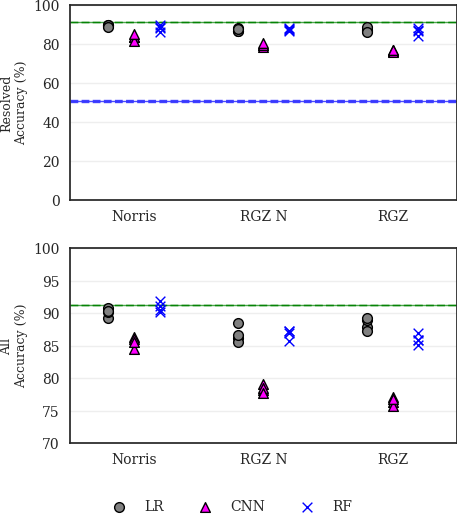
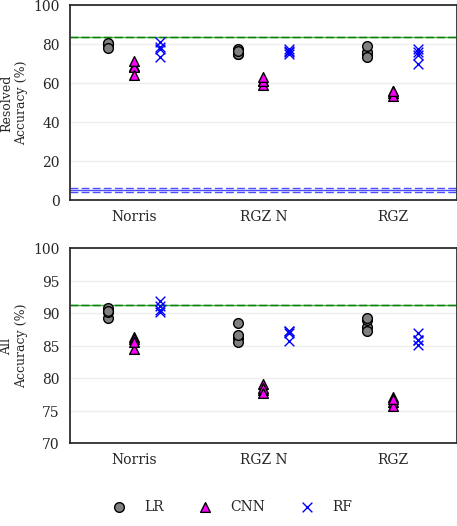
ELAIS plots fix - resolved/all

Changed region(s): [[0.1532, 0.0304, 1.0, 0.2129], [0.1532, 0.3346, 1.0, 0.3954]]

diff --git a/ATLAS-CDFS/scripts/plot_grid_cross_identifications.py b/ATLAS-CDFS/scripts/plot_grid_cross_identifications.py
@@ -86,11 +86,17 @@ def plot(field='cdfs'):
             elais_components = elais_components_fits[1].data
             atlas_cid_to_name = {}
             atlas_names = []  # Indices correspond to table 4 rows.
+            atlas_name_to_compact = {}
             for component in elais_components:
                 cid = component['CID']
                 name = component['ATELAIS']
                 atlas_names.append(name)
                 atlas_cid_to_name[cid] = name
+                row = {'Component S (Franzen)': component['Sint'],  # Fitting in with the CDFS API...
+                       'Component S_ERR (Franzen)': component['e_Sint'],
+                       'Component Sp (Franzen)': component['Sp'],
+                       'Component Sp_ERR (Franzen)': component['e_Sp']}
+                atlas_name_to_compact[name] = pipeline.compact_test(row)
         with open(pipeline.MIDDELBERG_TABLE5_PATH) as elais_file:
             # Took this code from pipeline.py, probably should make it a function
             lines = [line.split('|') for line in elais_file]
@@ -155,7 +161,10 @@ def plot(field='cdfs'):
             atlas_indices = atlas_test_sets[:, 0, 0].nonzero()[0]
             assert atlas_test_sets.shape[0] == len(atlas_names)
             for index in atlas_indices:
+                # Screen resolved here.
                 atlas_name = atlas_names[index]
+                if 'resolved' in cid.dataset_name and atlas_name_to_compact[atlas_name]:
+                    continue
                 if atlas_name not in atlas_to_swire_expert:
                     n_skipped += 1
                     continue
@@ -205,7 +214,10 @@ def plot(field='cdfs'):
                 atlas_indices = atlas_test_sets[:, 0, 0].nonzero()[0]
                 assert atlas_test_sets.shape[0] == len(atlas_names)
                 for index in atlas_indices:
+                    # Screen resolved here (because the test sets aren't useful for that for ELAIS)
                     atlas_name = atlas_names[index]
+                    if 'resolved' in dataset_name and atlas_name_to_compact[atlas_name]:
+                        continue
                     if atlas_name not in atlas_to_swire_expert:
                         n_skipped += 1
                         continue
